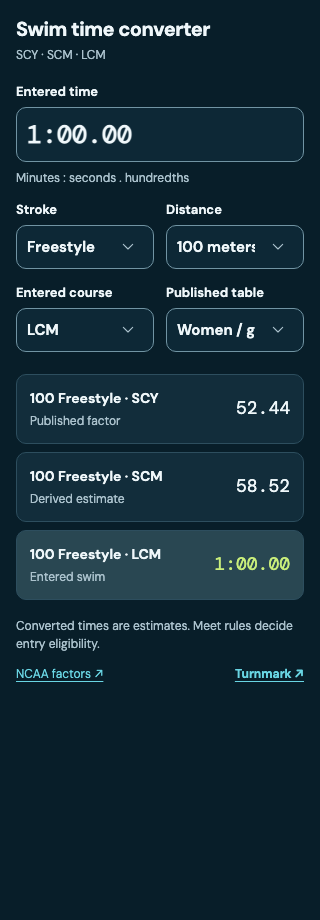
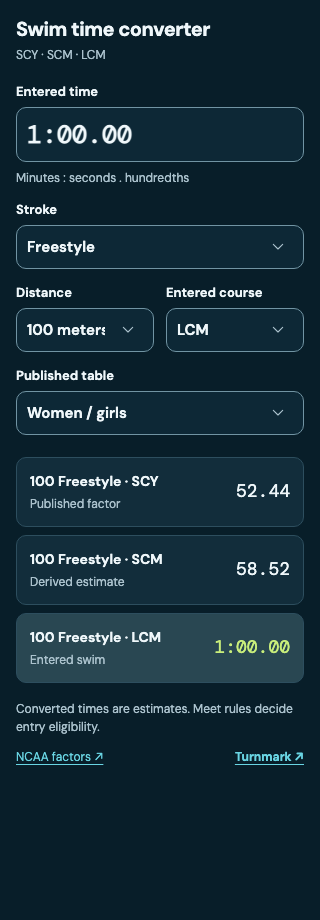
Keep long widget selections readable in narrow embeds

diff --git a/apps/embed/Widget.svelte b/apps/embed/Widget.svelte
@@ -76,7 +76,7 @@
         ? "Enter a positive time, such as 58.32 or 1:02.45 (up to 60:00)."
         : "Minutes : seconds . hundredths"}
     </p>
-    <label
+    <label class="wide-field"
       >Stroke<span class="select-wrap"
         ><select bind:value={stroke} onchange={reconcileDistance}
           >{#each strokes as s}<option value={s.value}>{s.label}</option
@@ -100,7 +100,7 @@
         ><Icon name="chevron" size={16} /></span
       ></label
     >
-    <label
+    <label class="wide-field"
       >Published table<span class="select-wrap"
         ><select bind:value={table}
           ><option value="women">Women / girls</option><option value="men"
@@ -338,6 +338,11 @@
   }
   .brand {
     font-weight: 750;
+  }
+  @media (max-width: 440px) {
+    .wide-field {
+      grid-column: 1 / -1;
+    }
   }
   @media (max-width: 360px) {
     .converter {

diff --git a/apps/embed/Setup.svelte b/apps/embed/Setup.svelte
@@ -7,7 +7,7 @@
     `${site.url}embed/v1/${theme === "auto" ? "" : `?theme=${theme}`}`,
   );
   const code = $derived(
-    `<iframe src="${url}" title="Swim time converter by Turnmark" width="100%" height="740" loading="lazy" referrerpolicy="strict-origin-when-cross-origin" style="max-width:640px;border:0;border-radius:16px;"></iframe>`,
+    `<iframe src="${url}" title="Swim time converter by Turnmark" width="100%" height="820" loading="lazy" referrerpolicy="strict-origin-when-cross-origin" style="max-width:640px;border:0;border-radius:16px;"></iframe>`,
   );
   async function copy() {
     copied = false;
@@ -98,7 +98,7 @@
       src={`/embed/v1/${theme === "auto" ? "" : `?theme=${theme}`}`}
       title="Swim time converter preview"
       width="100%"
-      height="740"
+      height="820"
       loading="lazy"
     ></iframe>
   </details>

diff --git a/docs/EMBED.md b/docs/EMBED.md
@@ -11,7 +11,7 @@ setup** in the website footer.
   src="https://turnmark.app/embed/v1/"
   title="Swim time converter by Turnmark"
   width="100%"
-  height="740"
+  height="820"
   loading="lazy"
   referrerpolicy="strict-origin-when-cross-origin"
   style="max-width:640px;border:0;border-radius:16px;"
